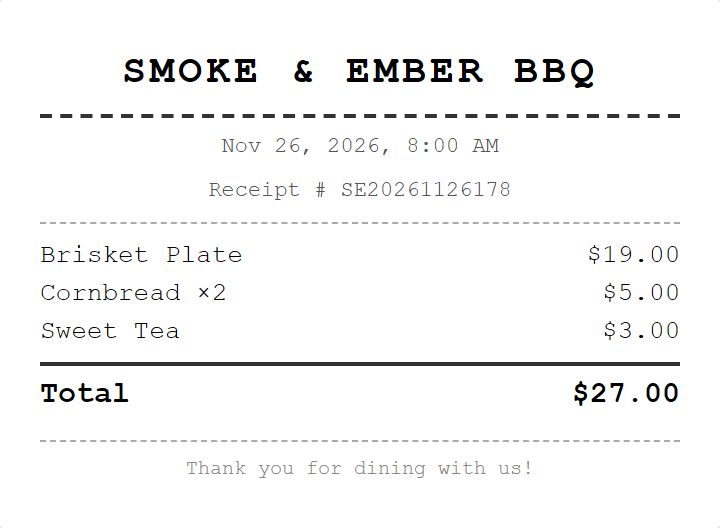
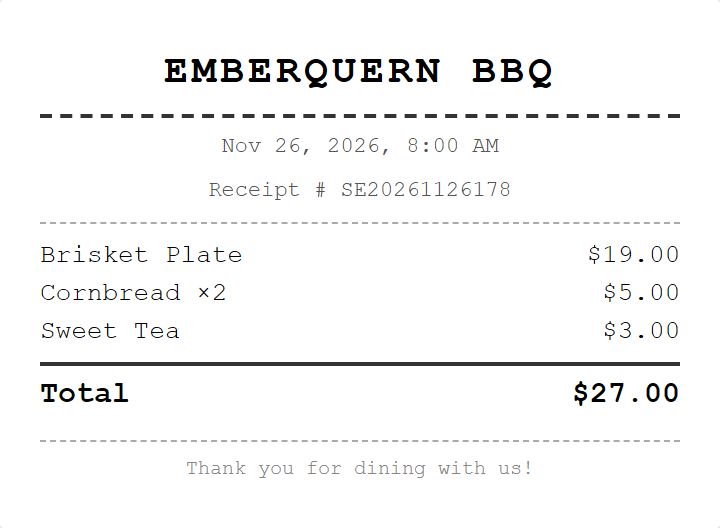
Fixtures: replace names that match real restaurants

Changed region(s): [[0.1528, 0.0909, 0.825, 0.1818]]

diff --git a/spikes/receipts/receipts.js b/spikes/receipts/receipts.js
@@ -19,7 +19,7 @@ const receipts = [
   // 1 — normal burger order
   {
     id: "R001", label: "normal-burger",
-    merchant: "Stacked Buns",  category: "food",
+    merchant: "Brumwicket Buns",  category: "food",
     purchaseTime: fmt(addHours(now, -1)),
     items: [["Double Stack Burger", 9.49], ["Fries", 2.99], ["Lemonade", 2.49]],
     total: 14.97, receiptId: "SB20261126001",
@@ -28,7 +28,7 @@ const receipts = [
   // 2 — normal taco order
   {
     id: "R002", label: "normal-taco",
-    merchant: "Taco Milagro",  category: "food",
+    merchant: "Tavvlethorn Tacos",  category: "food",
     purchaseTime: fmt(addHours(now, -2)),
     items: [["Fish Taco", 4.99], ["Street Taco ×2", 5.98], ["Horchata", 3.50]],
     total: 14.47, receiptId: "TM20261126088",
@@ -37,7 +37,7 @@ const receipts = [
   // 3 — family order over $100
   {
     id: "R003", label: "family-order",
-    merchant: "Golden Chopsticks",  category: "food",
+    merchant: "Zindlewick Chopsticks",  category: "food",
     purchaseTime: fmt(addHours(now, -3)),
     items: [["Peking Duck (whole)", 48.00], ["Kung Pao Chicken", 18.50],
             ["Fried Rice ×2", 19.00], ["Spring Rolls ×6", 15.00], ["Tea ×4", 8.00]],
@@ -47,7 +47,7 @@ const receipts = [
   // 4 — exact duplicate of R001 (same receipt, same fingerprint)
   {
     id: "R004", label: "exact-duplicate",
-    merchant: "Stacked Buns",  category: "food",
+    merchant: "Brumwicket Buns",  category: "food",
     purchaseTime: fmt(addHours(now, -1)),
     items: [["Double Stack Burger", 9.49], ["Fries", 2.99], ["Lemonade", 2.49]],
     total: 14.97, receiptId: "SB20261126001",   // same ID as R001
@@ -56,7 +56,7 @@ const receipts = [
   // 5 — re-photographed duplicate: same data, rotated 4° and blurred (simulates retake)
   {
     id: "R005", label: "rephotographed-duplicate",
-    merchant: "Stacked Buns",  category: "food",
+    merchant: "Brumwicket Buns",  category: "food",
     purchaseTime: fmt(addHours(now, -1)),
     items: [["Double Stack Burger", 9.49], ["Fries", 2.99], ["Lemonade", 2.49]],
     total: 14.97, receiptId: "SB20261126001",   // same ID as R001
@@ -65,7 +65,7 @@ const receipts = [
   // 6 — receipt 3 days old (outside 48-hour window)
   {
     id: "R006", label: "three-days-old",
-    merchant: "Pasta Pronto",  category: "food",
+    merchant: "Pellumquill Pasta",  category: "food",
     purchaseTime: fmt(addDays(now, -3)),
     items: [["Spaghetti Bolognese", 13.99], ["Garlic Bread", 3.50], ["House Wine", 7.00]],
     total: 24.49, receiptId: "PP20261123044",
@@ -74,7 +74,7 @@ const receipts = [
   // 7 — dated tomorrow (future receipt, should be rejected)
   {
     id: "R007", label: "future-receipt",
-    merchant: "Sunrise Diner",  category: "food",
+    merchant: "Dawnquibble Diner",  category: "food",
     purchaseTime: fmt(addDays(now, 1)),
     items: [["Avocado Toast", 11.00], ["Cold Brew", 5.50]],
     total: 16.50, receiptId: "SD20261127012",
@@ -83,7 +83,7 @@ const receipts = [
   // 8 — non-food store (hardware)
   {
     id: "R008", label: "non-food-hardware",
-    merchant: "Bolt & Beam Hardware",  category: "hardware",
+    merchant: "Brassquibble Hardware",  category: "hardware",
     purchaseTime: fmt(addHours(now, -5)),
     items: [["Wood Screws 3in ×50", 8.99], ["Paint Roller Kit", 14.49], ["Sandpaper Asst.", 6.75]],
     total: 30.23, receiptId: "BB20261126077",
@@ -92,7 +92,7 @@ const receipts = [
   // 9 — no time printed on receipt
   {
     id: "R009", label: "no-time",
-    merchant: "Wok & Roll",  category: "food",
+    merchant: "Wumplewick Wok",  category: "food",
     purchaseTime: null,   // date only, no time
     purchaseDate: "Nov 26, 2026",
     items: [["General Tso's Chicken", 13.50], ["Egg Fried Rice", 5.00]],
@@ -102,7 +102,7 @@ const receipts = [
   // 10 — delivery-app order confirmation style (DashDrop, a made-up app)
   {
     id: "R010", label: "delivery-app-style",
-    merchant: "Burger Barn",  category: "food",
+    merchant: "Bramblevex Burgers",  category: "food",
     purchaseTime: fmt(addHours(now, -4)),
     deliveryApp: "DashDrop",
     items: [["Classic Smash Burger", 11.99], ["Onion Rings", 4.49], ["Chocolate Shake", 5.99]],
@@ -113,7 +113,7 @@ const receipts = [
   // 11 — ramen, normal
   {
     id: "R011", label: "normal-ramen",
-    merchant: "Noodle Nirvana",  category: "food",
+    merchant: "Nimblequern Noodles",  category: "food",
     purchaseTime: fmt(addHours(now, -6)),
     items: [["Tonkotsu Ramen", 14.00], ["Gyoza ×6", 7.50], ["Green Tea", 2.50]],
     total: 24.00, receiptId: "NN20261126091",
@@ -122,7 +122,7 @@ const receipts = [
   // 12 — pizza, normal
   {
     id: "R012", label: "normal-pizza",
-    merchant: "Inferno Pies",  category: "food",
+    merchant: "Cindervibble Pies",  category: "food",
     purchaseTime: fmt(addHours(now, -7)),
     items: [["Margherita 12in", 16.00], ["Caesar Salad", 9.00], ["Craft Soda", 3.50]],
     total: 28.50, receiptId: "IP20261126144",
@@ -131,7 +131,7 @@ const receipts = [
   // 13 — sushi, normal
   {
     id: "R013", label: "normal-sushi",
-    merchant: "Sakura Rolls",  category: "food",
+    merchant: "Petalquern Rolls",  category: "food",
     purchaseTime: fmt(addHours(now, -8)),
     items: [["Dragon Roll", 14.50], ["Edamame", 4.00], ["Miso Soup", 3.00]],
     total: 21.50, receiptId: "SR20261126199",
@@ -140,7 +140,7 @@ const receipts = [
   // 14 — slightly rotated receipt (mild real-world camera tilt)
   {
     id: "R014", label: "tilted-receipt",
-    merchant: "The Brunch Spot",  category: "food",
+    merchant: "Brunchwizzle Hollow",  category: "food",
     purchaseTime: fmt(addHours(now, -9)),
     items: [["Eggs Benedict", 13.00], ["Fresh OJ", 5.00], ["Latte", 4.50]],
     total: 22.50, receiptId: "BS20261126066",
@@ -149,7 +149,7 @@ const receipts = [
   // 15 — coffee shop, low total
   {
     id: "R015", label: "coffee-low-total",
-    merchant: "Grounds Zero",  category: "food",
+    merchant: "Owlvibble Coffee",  category: "food",
     purchaseTime: fmt(addHours(now, -10)),
     items: [["Oat Milk Latte", 5.50], ["Almond Croissant", 3.75]],
     total: 9.25, receiptId: "GZ20261126022",
@@ -158,7 +158,7 @@ const receipts = [
   // 16 — BBQ, normal
   {
     id: "R016", label: "normal-bbq",
-    merchant: "Smoke & Ember BBQ",  category: "food",
+    merchant: "Emberquern BBQ",  category: "food",
     purchaseTime: fmt(addHours(now, -11)),
     items: [["Brisket Plate", 19.00], ["Cornbread ×2", 5.00], ["Sweet Tea", 3.00]],
     total: 27.00, receiptId: "SE20261126178",
@@ -167,7 +167,7 @@ const receipts = [
   // 17 — Indian, normal
   {
     id: "R017", label: "normal-indian",
-    merchant: "Spice Route",  category: "food",
+    merchant: "Spindlequern Spice",  category: "food",
     purchaseTime: fmt(addHours(now, -12)),
     items: [["Chicken Tikka Masala", 16.50], ["Garlic Naan ×2", 5.00], ["Mango Lassi", 4.50]],
     total: 26.00, receiptId: "SR20261126211",
@@ -176,7 +176,7 @@ const receipts = [
   // 18 — Mexican, normal
   {
     id: "R018", label: "normal-mexican",
-    merchant: "Casa Verde",  category: "food",
+    merchant: "Verdavibble Kitchen",  category: "food",
     purchaseTime: fmt(addHours(now, -13)),
     items: [["Chicken Burrito", 12.50], ["Chips & Guac", 6.00], ["Agua Fresca", 3.50]],
     total: 22.00, receiptId: "CV20261126055",
@@ -185,7 +185,7 @@ const receipts = [
   // 19 — Greek, normal
   {
     id: "R019", label: "normal-greek",
-    merchant: "Olive & Feta",  category: "food",
+    merchant: "Olivequibble Table",  category: "food",
     purchaseTime: fmt(addHours(now, -14)),
     items: [["Lamb Gyro", 11.00], ["Greek Salad", 9.50], ["Sparkling Water", 2.50]],
     total: 23.00, receiptId: "OF20261126130",
@@ -194,7 +194,7 @@ const receipts = [
   // 20 — blurry / low quality (simulates poor photo)
   {
     id: "R020", label: "blurry-photo",
-    merchant: "Harbor Fish Co.",  category: "food",
+    merchant: "Harborquern Fish",  category: "food",
     purchaseTime: fmt(addHours(now, -15)),
     items: [["Fish & Chips", 15.00], ["Coleslaw", 3.50], ["Root Beer", 2.99]],
     total: 21.49, receiptId: "HF20261126088",

diff --git a/docs/spikes/receipt-extraction.md b/docs/spikes/receipt-extraction.md
@@ -54,7 +54,7 @@ AWS Textract: skipped (no `AWS_ACCESS_KEY_ID` in environment)
 
 | Field | Expected | Extracted | Match |
 |---|---|---|---|
-| Merchant | `Stacked Buns` | `STACKED mung` | ✗ |
+| Merchant | `Brumwicket Buns` | `STACKED mung` | ✗ |
 | Date/Time | `Nov 26, 2026, 6:00 PM` | `(none)` | ✗ |
 | Total | `14.97` | `(none)` | ✗ |
 | Receipt ID | `SB20261126001` | `(none)` | ✗ |
@@ -77,7 +77,7 @@ Total en
 
 | Field | Expected | Extracted | Match |
 |---|---|---|---|
-| Merchant | `The Brunch Spot` | `THE BRUNCH SPOT` | ✓ |
+| Merchant | `Brunchwizzle Hollow` | `BRUNCHWIZZLE HOLLOW` | ✓ |
 | Date/Time | `Nov 26, 2026, 10:00 AM` | `Nov 26, 2026` | ✗ |
 | Total | `22.5` | `22.5` | ✓ |
 | Receipt ID | `BS20261126066` | `(none)` | ✗ |
@@ -85,7 +85,7 @@ Total en
 <details><summary>Raw OCR text</summary>
 
 ```
-THE BRUNCH SPOT
+BRUNCHWIZZLE HOLLOW
 Nov 26, 2026, 10:0¢ AM
 Eggs Benedict $13.00
 Fresh og $5.00
@@ -100,7 +100,7 @@ Total $22.50
 
 | Field | Expected | Extracted | Match |
 |---|---|---|---|
-| Merchant | `Harbor Fish Co.` | `RARBOR Fis co` | ✗ |
+| Merchant | `Harborquern Fish` | `RARBOR Fis co` | ✗ |
 | Date/Time | `Nov 26, 2026, 4:00 AM` | `(none)` | ✗ |
 | Total | `21.49` | `(none)` | ✗ |
 | Receipt ID | `HF20261126088` | `(none)` | ✗ |
